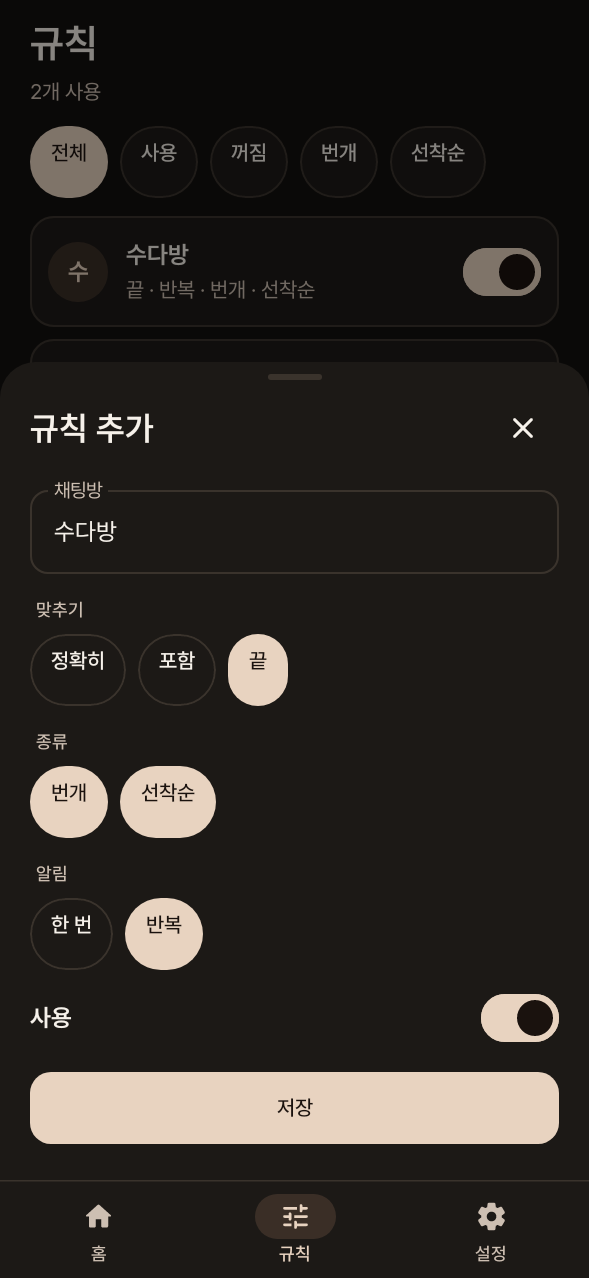
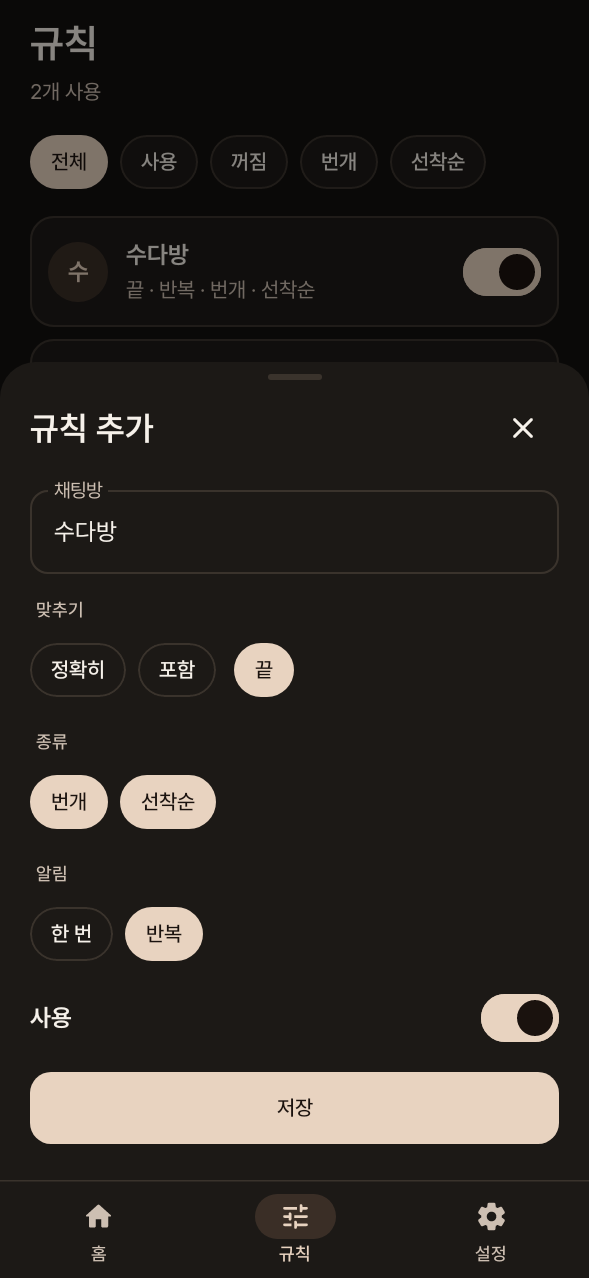
Center chip labels inside a 36dp pill.
BungaeChip was applying a 48dp minimum height directly to Text, so the label sat in the top of a stretched pill. The visible chip is now a centered 36dp pill, and the clickable box stays at least 48dp.

diff --git a/app/src/main/java/app/bungaealert/ui/Components.kt b/app/src/main/java/app/bungaealert/ui/Components.kt
@@ -19,6 +19,7 @@ import androidx.compose.foundation.layout.PaddingValues
 import androidx.compose.foundation.layout.Row
 import androidx.compose.foundation.layout.Spacer
 import androidx.compose.foundation.layout.WindowInsets
+import androidx.compose.foundation.layout.defaultMinSize
 import androidx.compose.foundation.layout.fillMaxHeight
 import androidx.compose.foundation.layout.fillMaxSize
 import androidx.compose.foundation.layout.fillMaxWidth
@@ -71,6 +72,7 @@ import androidx.compose.ui.graphics.Color
 import androidx.compose.ui.graphics.StrokeCap
 import androidx.compose.ui.graphics.drawscope.Stroke
 import androidx.compose.ui.graphics.vector.ImageVector
+import androidx.compose.ui.platform.testTag
 import androidx.compose.ui.semantics.Role
 import androidx.compose.ui.semantics.contentDescription
 import androidx.compose.ui.semantics.heading
@@ -315,19 +317,33 @@ fun BungaeChip(label: String, selected: Boolean, onClick: () -> Unit, modifier: 
         label = "chipText",
     )
     val border = if (selected) Color.Transparent else MaterialTheme.colorScheme.outline
-    Text(
-        label,
-        modifier = modifier
-            .heightIn(min = 48.dp)
-            .clip(RoundedCornerShape(999.dp))
-            .border(1.dp, border, RoundedCornerShape(999.dp))
-            .background(background)
+    Box(
+        modifier
+            .defaultMinSize(minWidth = 48.dp, minHeight = 48.dp)
+            .testTag("bungaeChipTouch")
             .clickable(role = Role.Button, onClick = onClick)
-            .padding(horizontal = 14.dp, vertical = 8.dp)
             .semantics { this.selected = selected },
-        style = MaterialTheme.typography.labelLarge,
-        color = foreground,
-    )
+        contentAlignment = Alignment.Center,
+    ) {
+        Box(
+            Modifier
+                .heightIn(min = 36.dp)
+                .testTag("bungaeChipPill")
+                .clip(RoundedCornerShape(999.dp))
+                .border(1.dp, border, RoundedCornerShape(999.dp))
+                .background(background)
+                .padding(horizontal = 14.dp),
+            contentAlignment = Alignment.Center,
+        ) {
+            Text(
+                label,
+                style = MaterialTheme.typography.labelLarge,
+                color = foreground,
+                textAlign = TextAlign.Center,
+                maxLines = 1,
+            )
+        }
+    }
 }
 
 @Composable
@@ -335,6 +351,7 @@ fun ChipRow(labels: List<String>, selected: Int, onSelect: (Int) -> Unit, modifi
     Row(
         modifier.horizontalScroll(rememberScrollState()),
         horizontalArrangement = Arrangement.spacedBy(8.dp),
+        verticalAlignment = Alignment.CenterVertically,
     ) {
         labels.forEachIndexed { index, label ->
             BungaeChip(label = label, selected = index == selected, onClick = { onSelect(index) })

diff --git a/app/src/test/java/app/bungaealert/ui/ChipLayoutTest.kt b/app/src/test/java/app/bungaealert/ui/ChipLayoutTest.kt
@@ -1,0 +1,58 @@
+package app.bungaealert.ui
+
+import androidx.compose.ui.test.assertIsSelected
+import androidx.compose.ui.test.getUnclippedBoundsInRoot
+import androidx.compose.ui.test.junit4.createComposeRule
+import androidx.compose.ui.test.onNodeWithTag
+import androidx.compose.ui.test.onNodeWithText
+import androidx.compose.ui.test.performClick
+import androidx.compose.ui.unit.dp
+import androidx.test.ext.junit.runners.AndroidJUnit4
+import kotlin.math.abs
+import org.junit.Assert.assertTrue
+import org.junit.Rule
+import org.junit.Test
+import org.junit.runner.RunWith
+import org.robolectric.annotation.Config
+import org.robolectric.annotation.GraphicsMode
+
+@RunWith(AndroidJUnit4::class)
+@GraphicsMode(GraphicsMode.Mode.NATIVE)
+@Config(sdk = [33], application = android.app.Application::class)
+class ChipLayoutTest {
+    @get:Rule
+    val rule = createComposeRule()
+
+    @Test
+    fun labelIsCenteredInAShortPillWithA48DpTouchTarget() {
+        var clicks = 0
+        rule.setContent {
+            BungaeTheme {
+                BungaeChip(label = "전체", selected = true, onClick = { clicks += 1 })
+            }
+        }
+
+        val touch = rule.onNodeWithTag("bungaeChipTouch").assertIsSelected().getUnclippedBoundsInRoot()
+        val pill = rule.onNodeWithTag("bungaeChipPill", useUnmergedTree = true).getUnclippedBoundsInRoot()
+        val text = rule.onNodeWithText("전체", useUnmergedTree = true).getUnclippedBoundsInRoot()
+        val touchHeight = touch.bottom - touch.top
+        val touchWidth = touch.right - touch.left
+        val pillHeight = pill.bottom - pill.top
+
+        assertTrue("touch height $touchHeight", touchHeight >= 48.dp)
+        assertTrue("touch width $touchWidth", touchWidth >= 48.dp)
+        assertTrue("pill height $pillHeight", pillHeight >= 36.dp && pillHeight <= 40.dp)
+
+        val textMidY = (text.top + text.bottom) * 0.5f
+        val textMidX = (text.left + text.right) * 0.5f
+        val pillMidY = (pill.top + pill.bottom) * 0.5f
+        val pillMidX = (pill.left + pill.right) * 0.5f
+        val touchMidY = (touch.top + touch.bottom) * 0.5f
+        assertTrue("text vs pill y $textMidY $pillMidY", abs(textMidY.value - pillMidY.value) < 1f)
+        assertTrue("text vs pill x $textMidX $pillMidX", abs(textMidX.value - pillMidX.value) < 1f)
+        assertTrue("pill vs touch y $pillMidY $touchMidY", abs(pillMidY.value - touchMidY.value) < 1f)
+
+        rule.onNodeWithTag("bungaeChipTouch").performClick()
+        rule.runOnIdle { assertTrue(clicks == 1) }
+    }
+}
